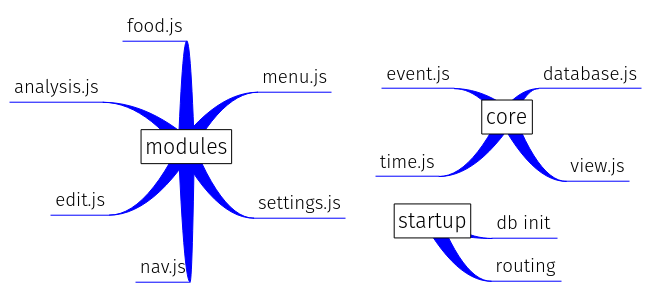
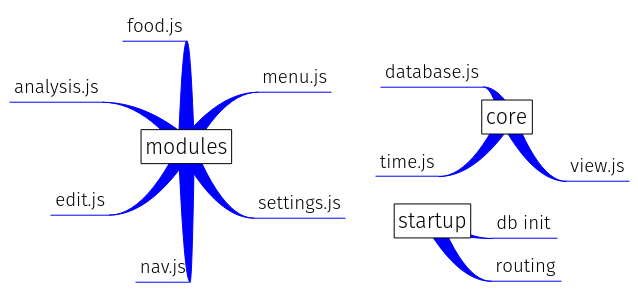
removed extraneous event.js

diff --git a/js/core/time.js b/js/core/time.js
@@ -1,6 +1,4 @@
 console.log("js/time.js [✓]");
-/* TODO: only call Time.Event when the time actually changes
-* : ignore multiple home button presses */
 
 (function() {
   
@@ -15,28 +13,24 @@ console.log("js/time.js [✓]");
     Day: function() {return self.stamp;}, //  
     Stamp: function() {return new Date().getTime() / 1000;},
 
-    Prev: function(e, callback) {
+    Prev: function(callback) {
       self.stamp = self.day.setHours(-24,0,0,0) / 1000;
       date.innerHTML = self.day.mdy();
-      Time.Event(self.stamp);
-
-      //callback(self.stamp);
+      callback(self.stamp);
     },
 
-    Now: function(e) {
+    Now: function(callback) {
       self.day = new Date();
       self.stamp = self.day.setHours(0,0,0,0) / 1000;
       date.innerHTML = self.day.mdy();
-      Time.Event(self.stamp);
+      callback(self.stamp);
     },
 
-    Next: function(e) {
+    Next: function(callback) {
       self.stamp = self.day.setHours(24,0,0,0) / 1000;
       date.innerHTML = self.day.mdy();
-      Time.Event(self.stamp);
+      callback(self.stamp);
     },
   };
-
-
 
 })();

diff --git a/js/module/nav.js b/js/module/nav.js
@@ -4,11 +4,15 @@ console.log("js/nav.js [✓]");
   /* Binds */
   var time = document.querySelector("div[data-scope='time']");
   time.querySelector("button[data-fn='edit']").onclick = function(e) {View('edit');};
-  time.querySelector("button[data-fn='prev']").onclick = function() {
-    Time.Now(function(stamp) {Food.Food})
-  }
-  time.querySelector("button[data-fn='now']").onclick = Time.Now;
-  time.querySelector("button[data-fn='next']").onclick = Time.Next;
+
+  var reload = function (day) {
+    Food.Global({db: Database.Day(day), totals: Database.Totals(day), mode: "reload"});
+  };
+
+  time.querySelector("button[data-fn='prev']").onclick = function() {Time.Prev(reload);};
+  time.querySelector("button[data-fn='now']").onclick =  function() {Time.Now(reload);};
+  time.querySelector("button[data-fn='next']").onclick = function() {Time.Next(reload);};
+
 
   /* Binds */
   var menu = document.querySelector("nav[data-scope='nav']");

diff --git a/index.html b/index.html
@@ -11,8 +11,6 @@
     <title>health.js</title>
   </head>
 
-  <!-- Special -->
-
   <body>
 
     <!-- Navbar -->
@@ -143,7 +141,6 @@
     <script src='js/core/database.js'></script>
     <script src='js/core/time.js'></script>
     <script src='js/core/view.js'></script>
-    <script src='js/core/event.js'></script>
     <!-- module -->
     <script src='js/module/menu.js'></script>
     <script src='js/module/settings.js'></script>
@@ -153,7 +150,7 @@
     <script src='js/module/nav.js'></script>
 
     <script>
-      /* routing */ window.location = '#settings';  routie('*', function(name) {View(name);});
+      /* routing */ window.location = '#food';  routie('*', function(name) {View(name);});
       /* init db */ Food.Global({db: Database.Read(Time.Day()), totals: Database.Totals(Time.Day()), mode: "add"});
     </script>
 

diff --git a/hacking/HACKING.md b/hacking/HACKING.md
@@ -13,8 +13,7 @@ integral to health.js's functioning.
 | Library   | Function |
 |-----------|----------|
 | routie.js | Handles '#' routing for multiple views |
-|-----------|----------|
-| tinytim.js | Allows templating for various modules|
+| tinytim.js| Allows templating for various modules |
 |-----------|----------|
 
 
